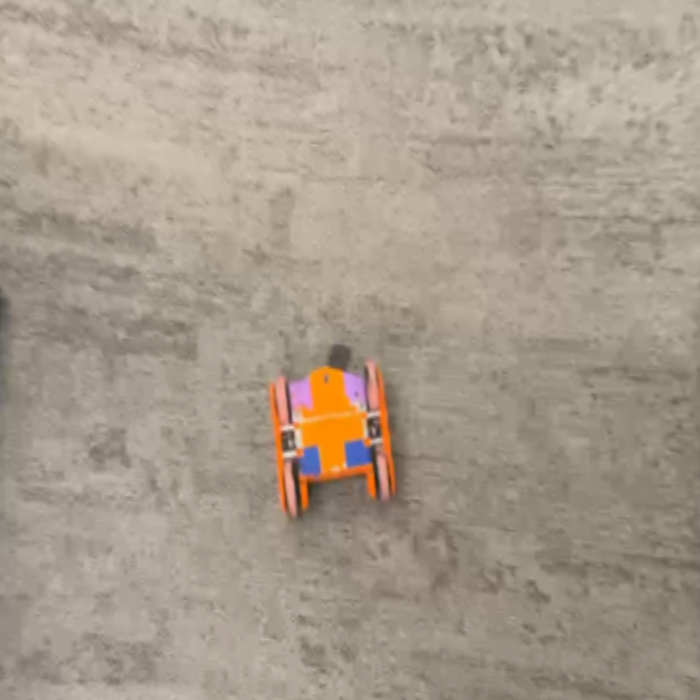
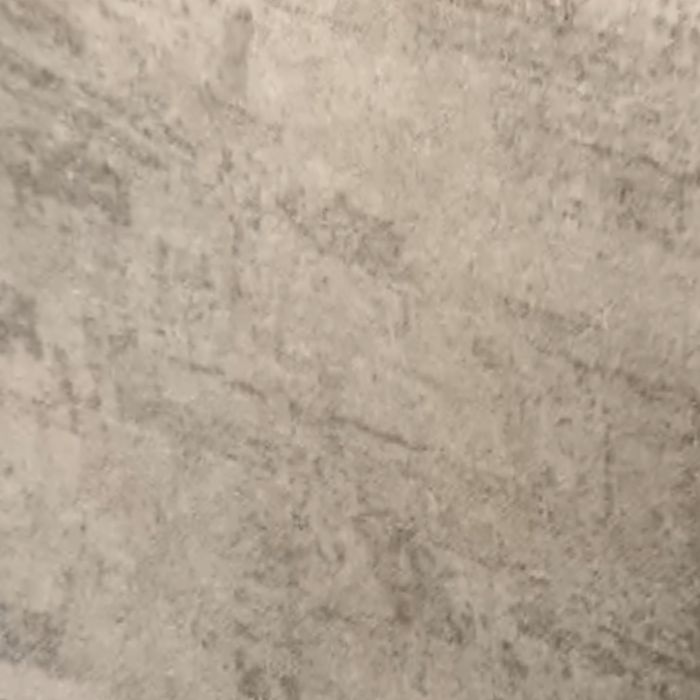
fixed transmission when huey not seen

diff --git a/main.py b/main.py
@@ -330,31 +330,31 @@ def main():
                     detected_bots_with_data)
                 
                 if detected_bots_with_data and detected_bots_with_data["huey"]:
-                    if PRINT:
-                        print("ALGORITHM: " + str(move_dictionary))
                     if DISPLAY_ANGLES:
                         display_angles(detected_bots_with_data,
                                         move_dictionary, warped_frame)
-                    # 14. Transmitting the motor values to Huey's if we're using a live video
-                    if IS_TRANSMITTING: #add check for ?
-                        speed = move_dictionary["speed"]
-                        turn = move_dictionary["turn"]
-                        #TODO: when move_dictionary is None, these values don't exist -- just return old speed & turn values from Ram?
-                        # new issue, since we are now making NEW ram object each frame
+                if PRINT:
+                    print("ALGORITHM: " + str(move_dictionary))
+                # 14. Transmitting the motor values to Huey's if we're using a live video
+                if IS_TRANSMITTING: #add check for ?
+                    speed = move_dictionary["speed"]
+                    turn = move_dictionary["turn"]
+                    #TODO: when move_dictionary is None, these values don't exist -- just return old speed & turn values from Ram?
+                    # new issue, since we are now making NEW ram object each frame
 
-                        tt = time.perf_counter()
-                        if turn * -1 > 0:
-                            motor_group.move(
-                                IS_FLIPPED * speed * 0.8, turn * -1 * 0.55 + 0.2)
-                        else:
-                            motor_group.move(
-                                IS_FLIPPED * speed * 0.8, turn * -1 * 0.55 - 0.2)
-                        if TIMING:
-                            t_turn.append(time.perf_counter() - tt)
-                    elif DISPLAY_ANGLES:
-                        display_angles(detected_bots_with_data,
-                                    None, warped_frame)
+                    tt = time.perf_counter()
+                    if turn * -1 > 0:
+                        motor_group.move(
+                            IS_FLIPPED * speed * 0.8, turn * -1 * 0.55 + 0.2)
+                    else:
+                        motor_group.move(
+                            IS_FLIPPED * speed * 0.8, turn * -1 * 0.55 - 0.2)
+                    if TIMING:
+                        t_turn.append(time.perf_counter() - tt)
                 elif DISPLAY_ANGLES:
+                    display_angles(detected_bots_with_data,
+                                None, warped_frame)
+                else:
                     display_angles(None, None, warped_frame)
 
                 if SHOW_FRAME and not DISPLAY_ANGLES:
